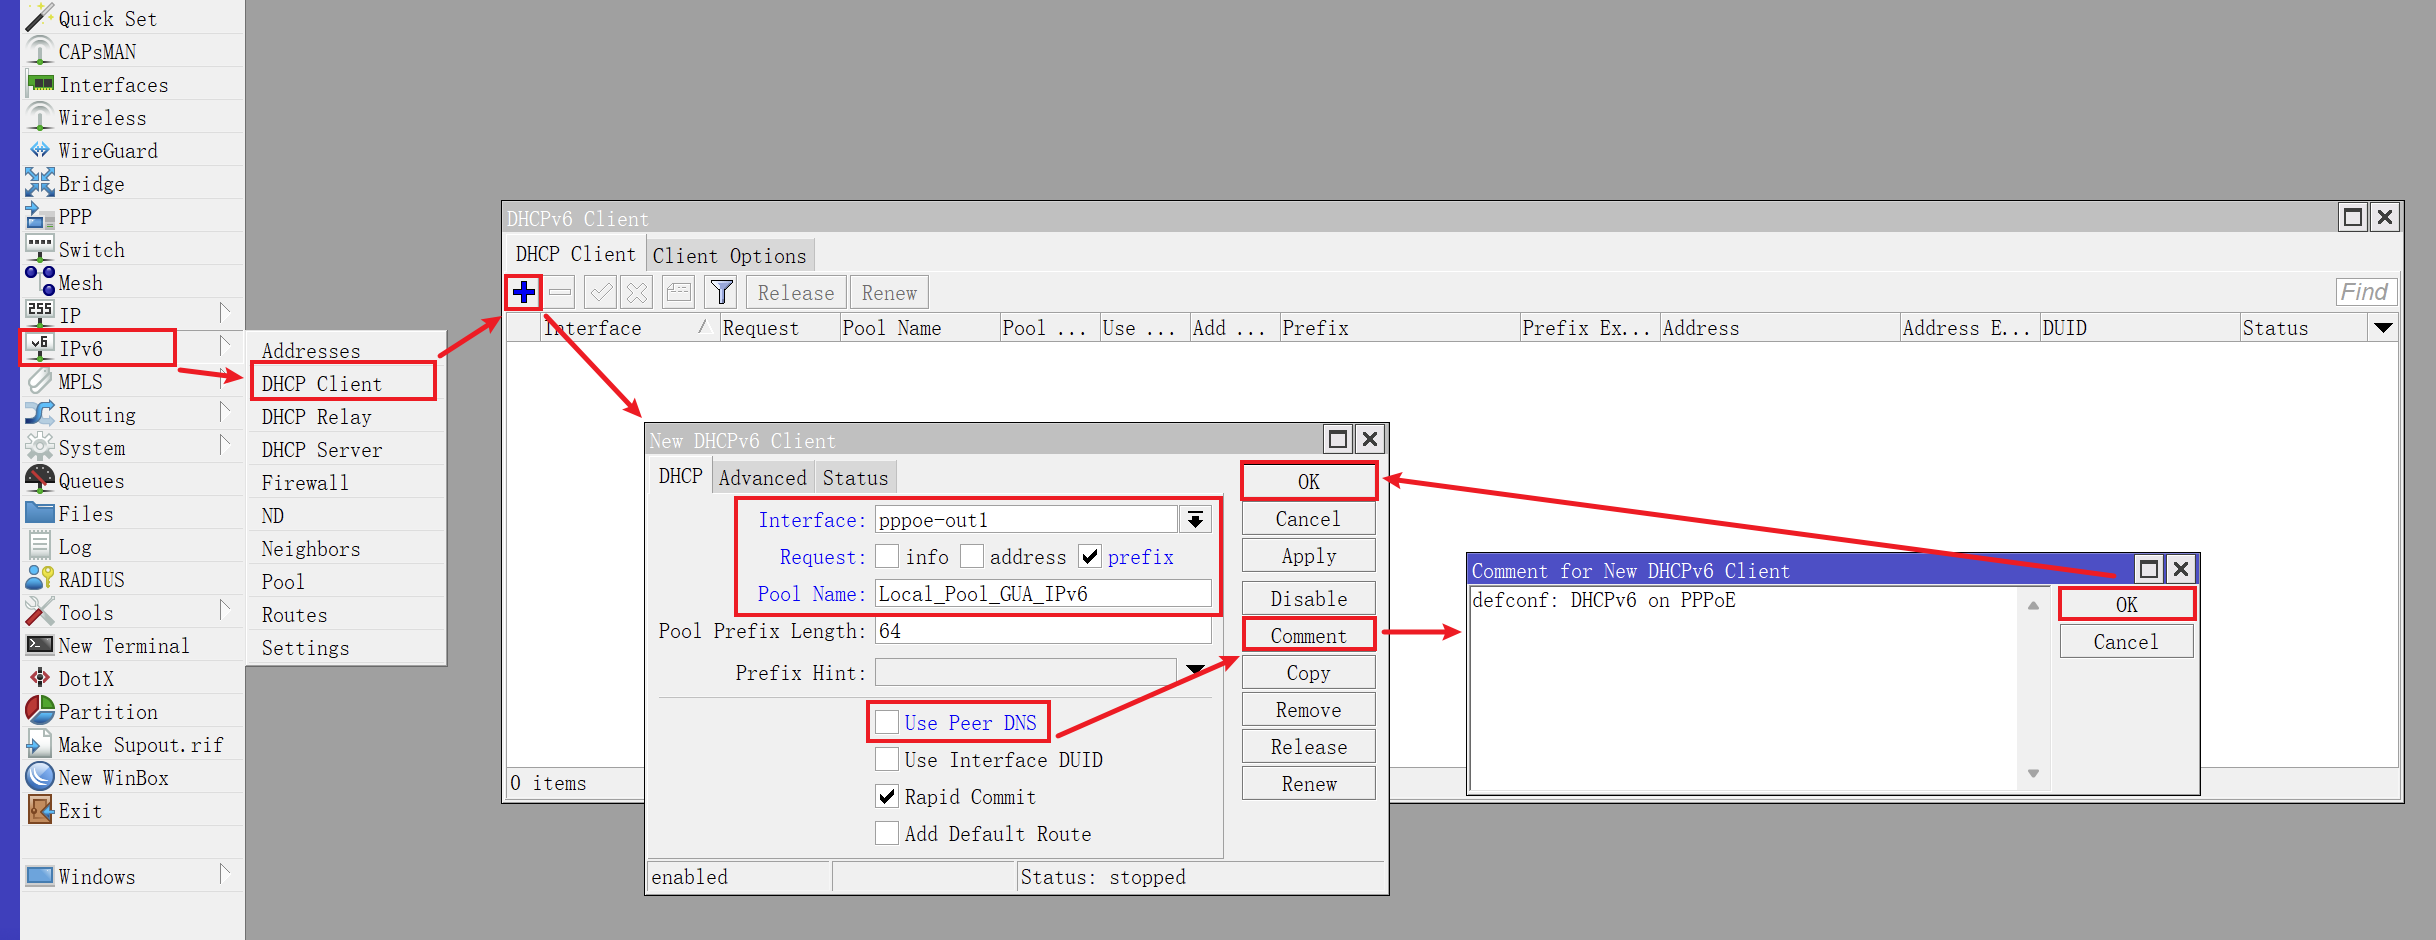
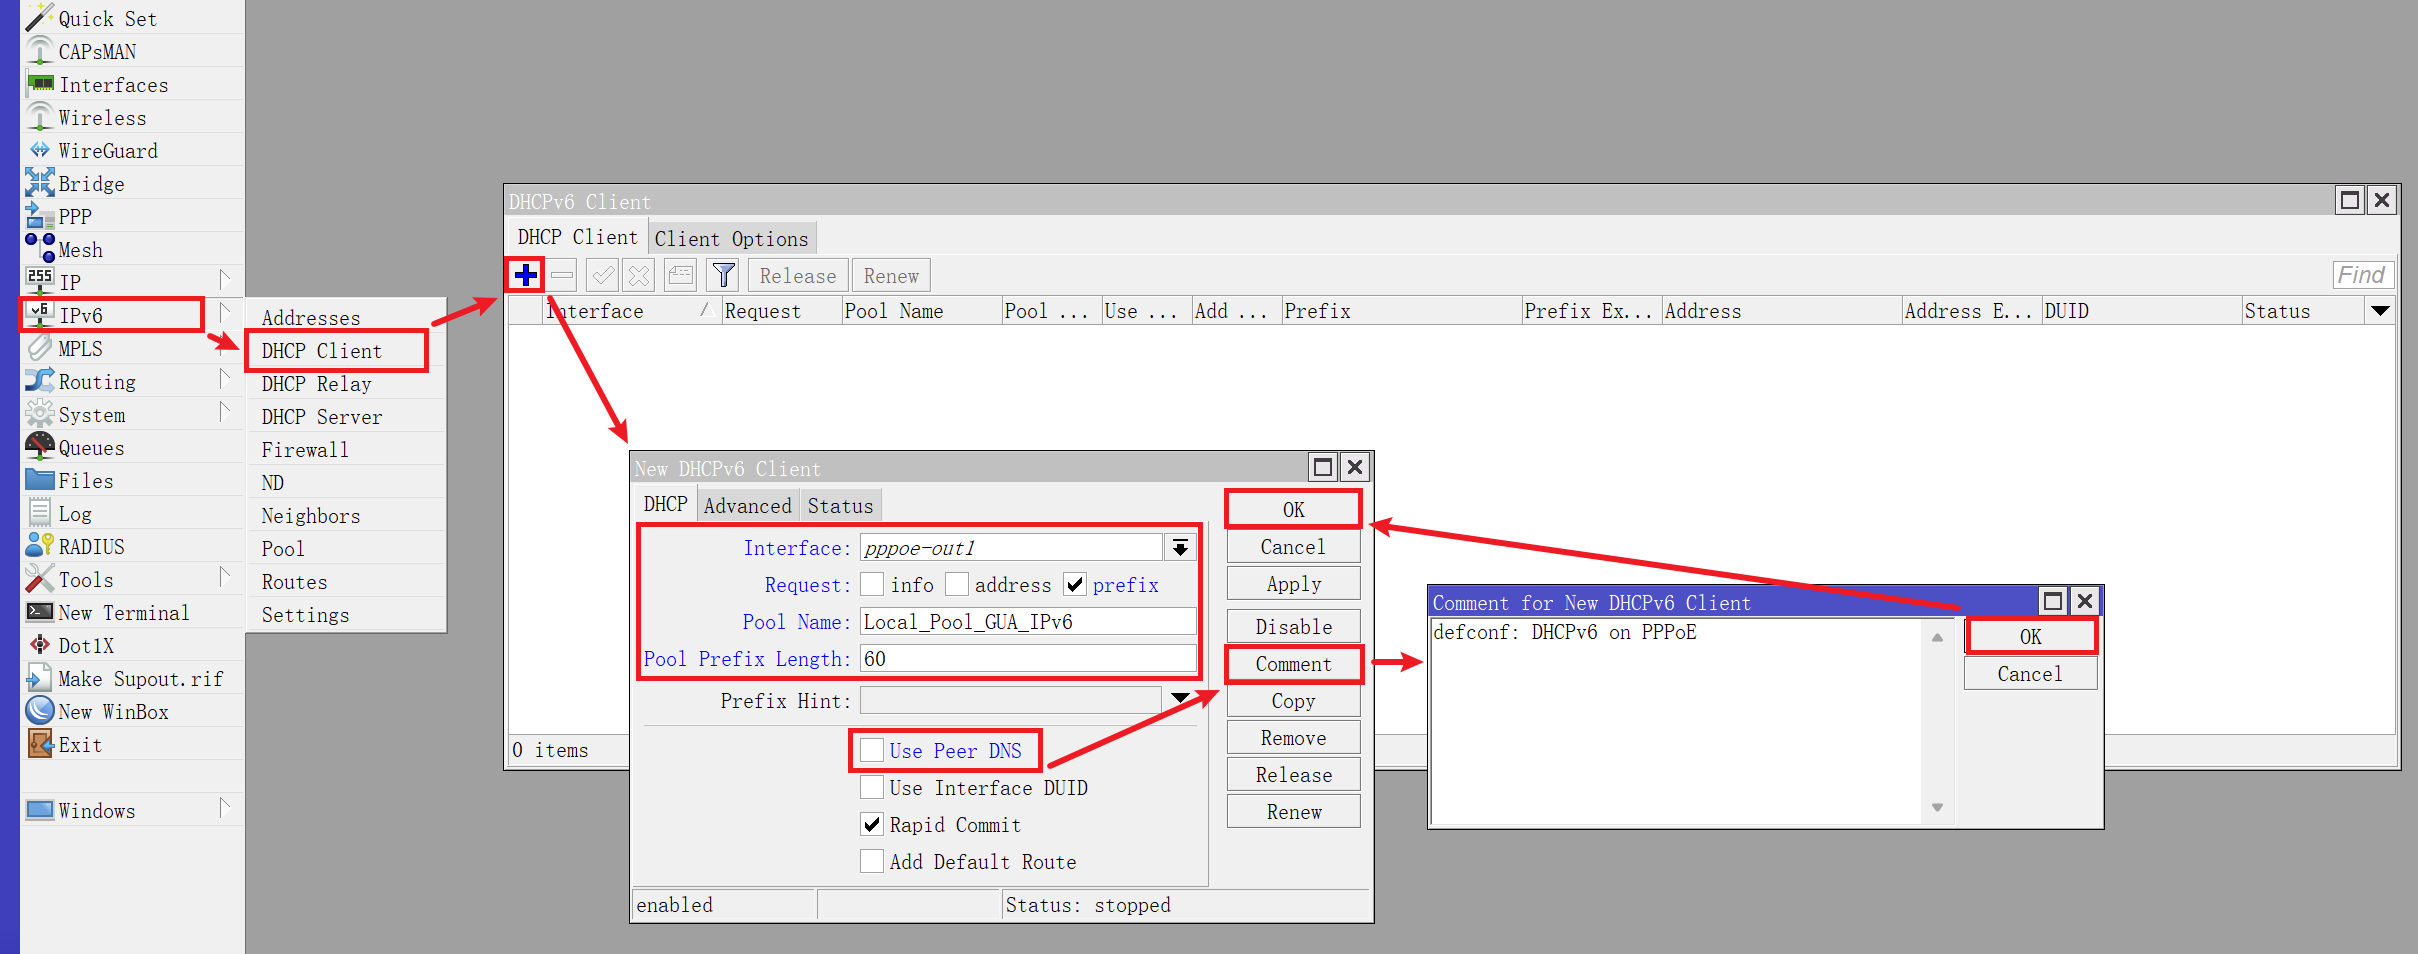
更新 DHCPv6 Client 设置参数

Changed region(s): [[0.0, 0.0, 0.9926, 0.9872], [0.0, 0.9255, 0.062, 0.9564], [0.8995, 0.7404, 0.9305, 0.7713]]

diff --git a/09.RouterOS配置IPv6.md b/09.RouterOS配置IPv6.md
@@ -32,7 +32,8 @@
 |--|--|--|
 |Interface|`pppoe-out1`|从 PPPoE 拨号中获取 IPv6 前缀|
 |Request|`prefix`|表示只获取前缀信息|
-|Pool Name|`Local_Pool_GUA_IPv6`|设置 IPv6 地址池名称|
+|Pool Name|`Local_Pool_GUA_IPv6`|设置本地 IPv6 地址池名称|
+|Pool Prefix Length|`60`|设置本地 IPv6 地址池长度|
 |Use Peer DNS| **取消勾选** |不使用运营商的 IPv6 DNS|
 |Add Default Route| **不勾选** |是否加入默认路由，建议是无需勾选|
 |Comment|`defconf: DHCPv6 on PPPoE`|备注信息|
